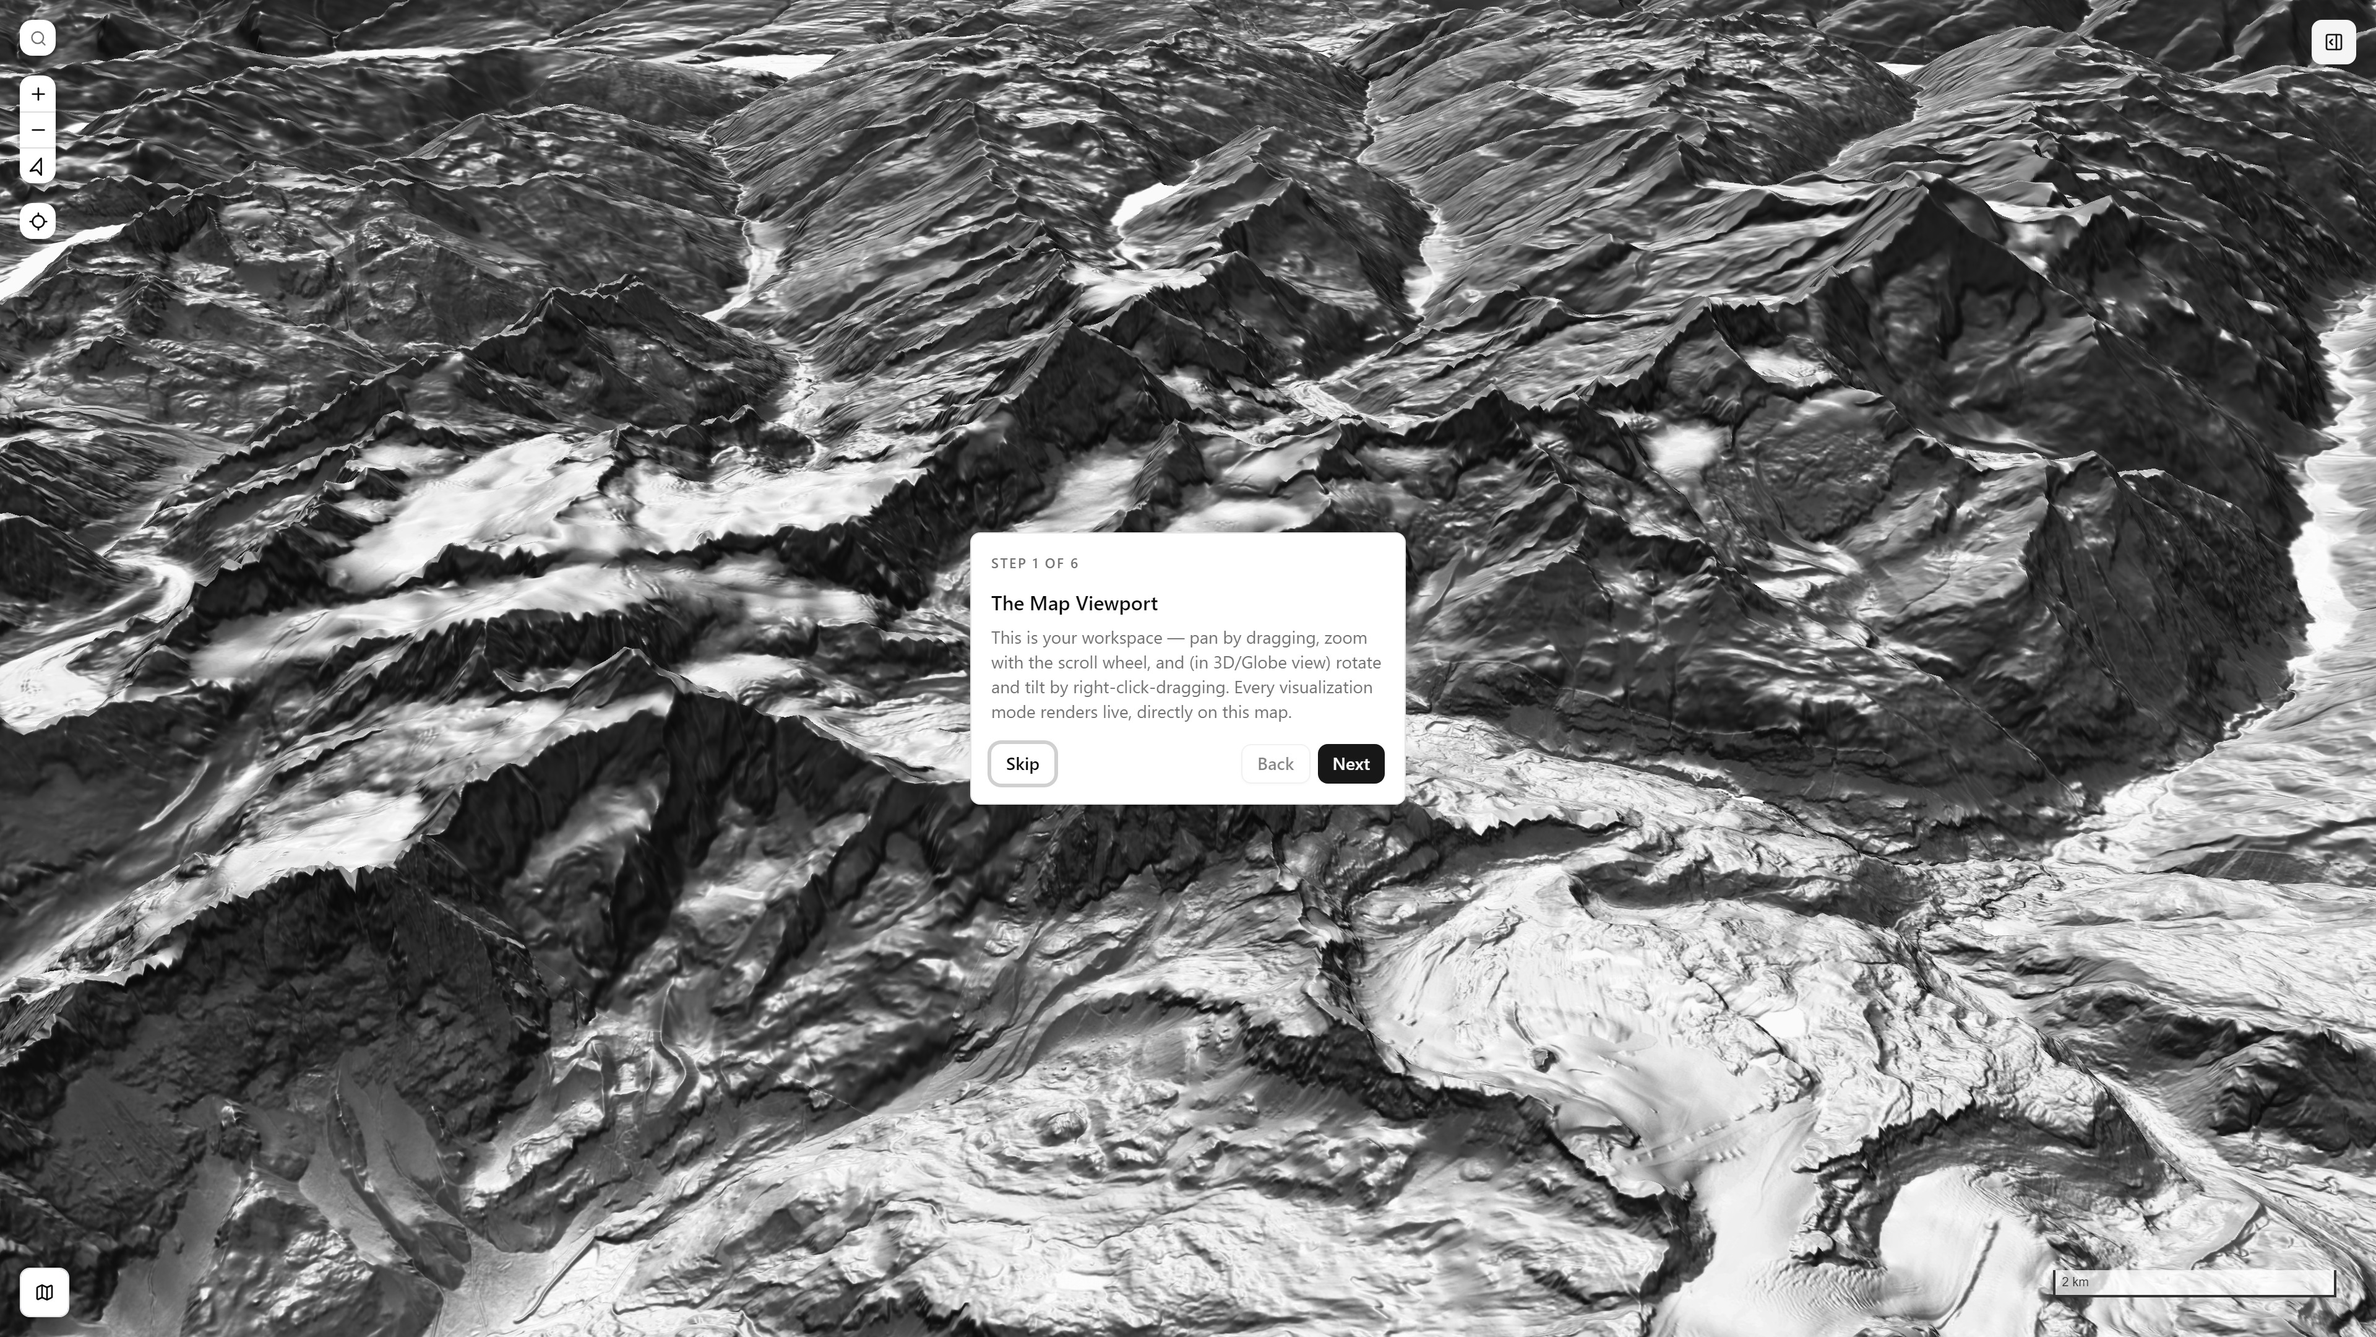
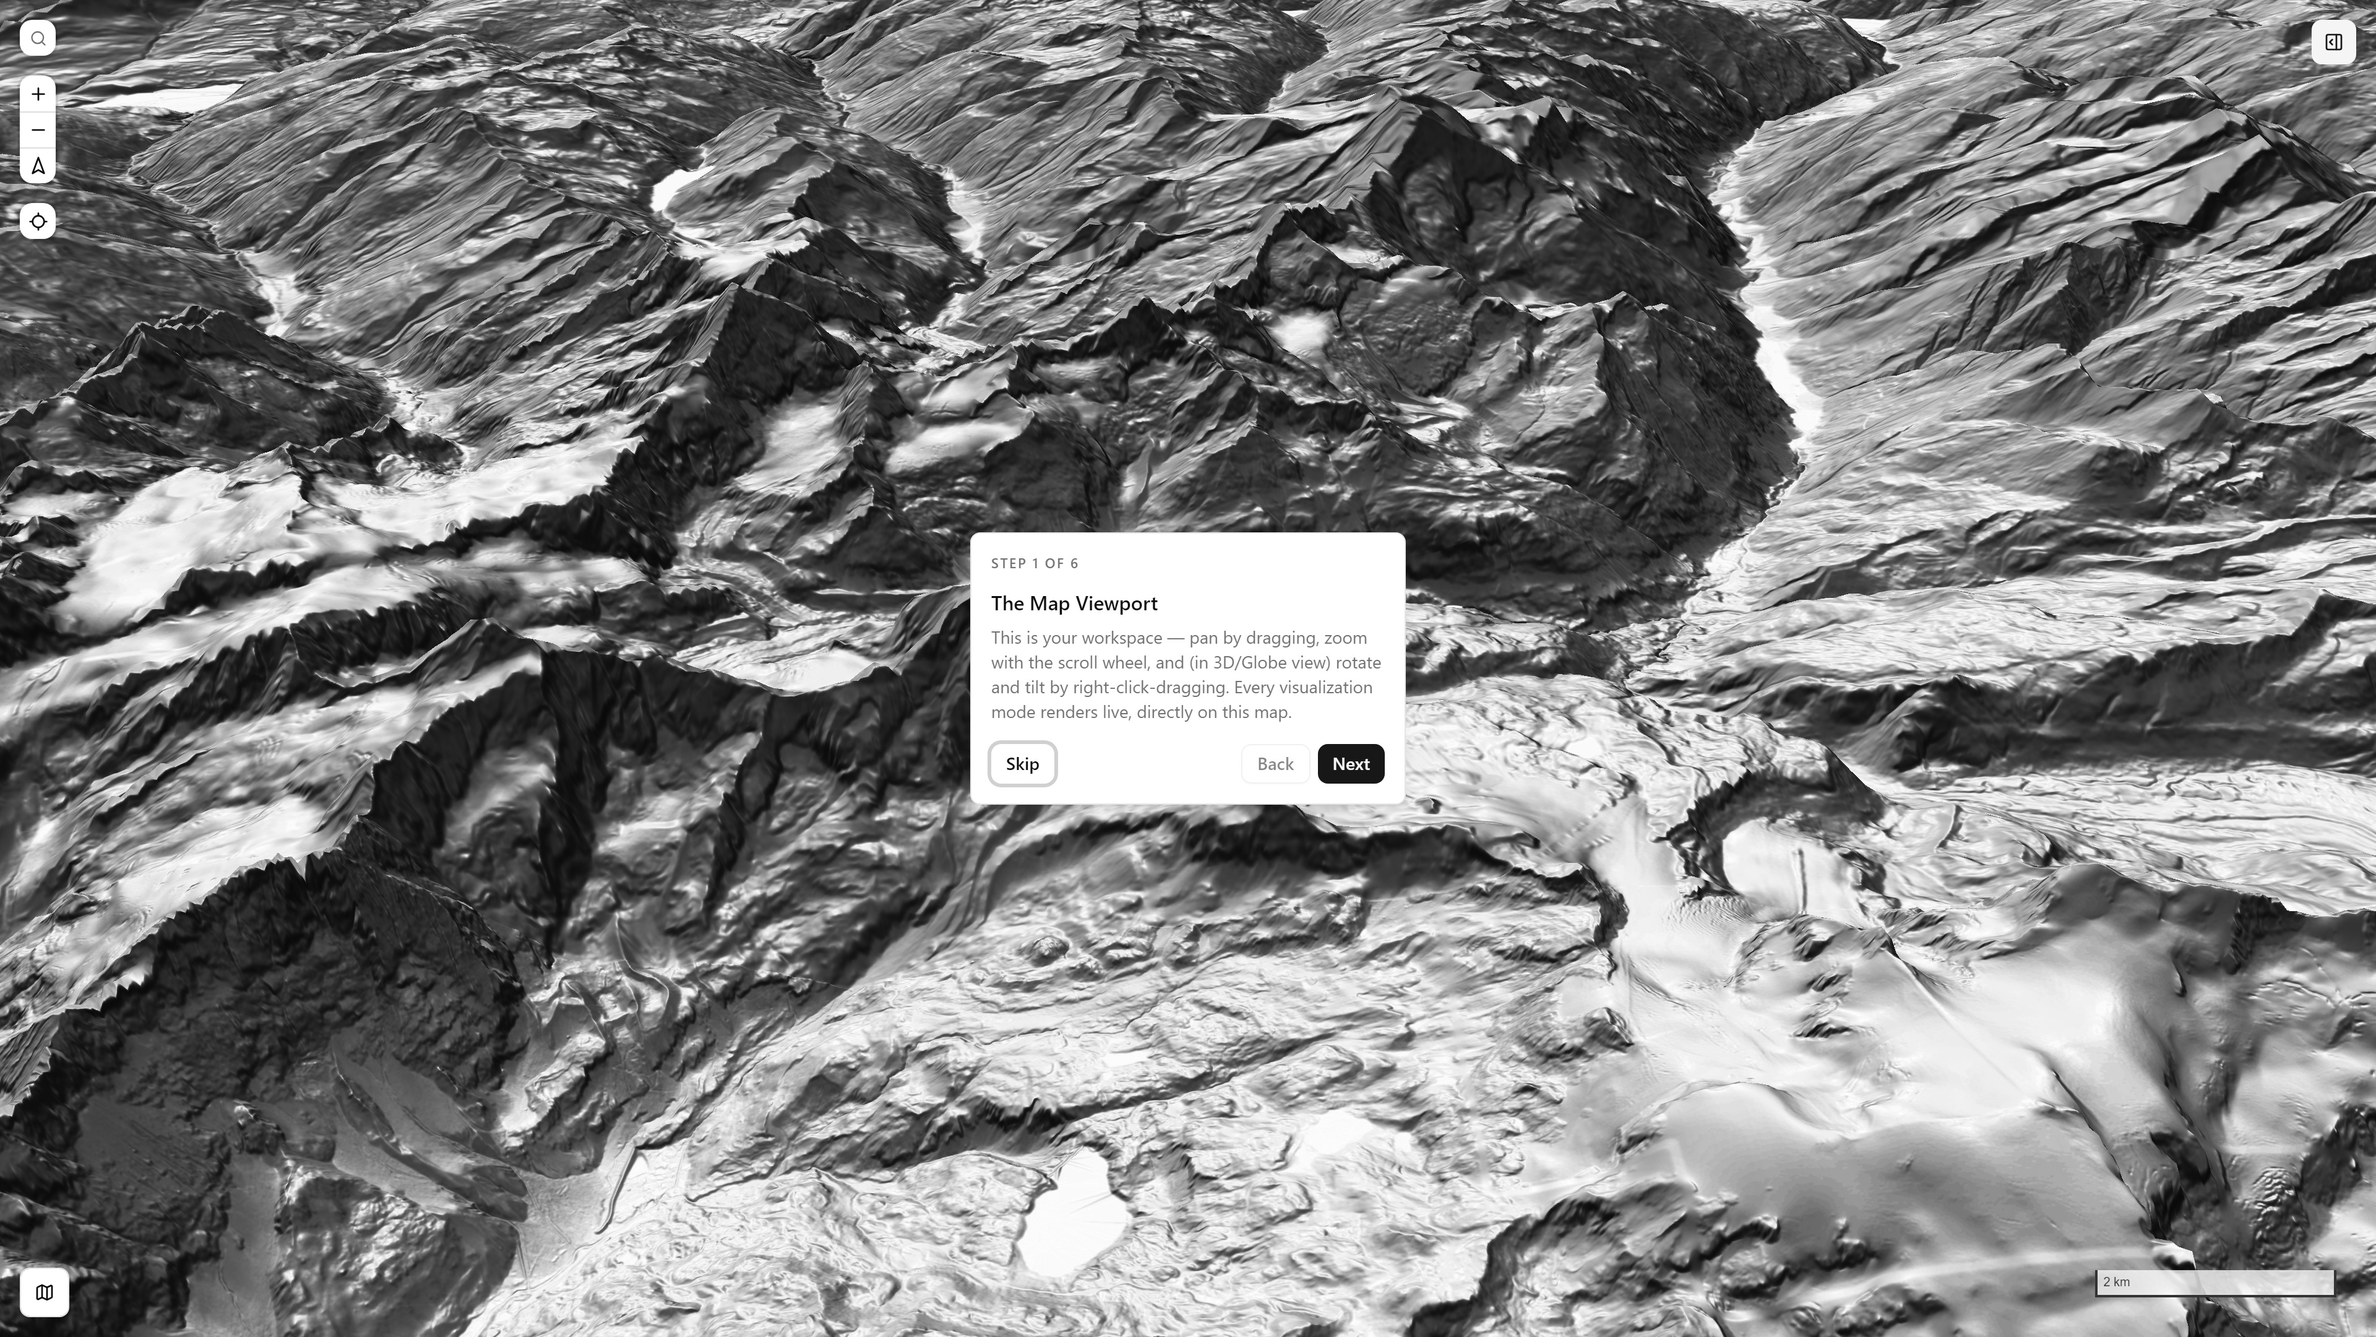
Docs: Elevation Picker/SVF/Hillshade/Matcap/Overlay redo, tour hillshade-reset fix, changelog entry, lightbox multi-link fix
- product-tour.tsx: Terrain Sources step resets to pure Hillshade (fixes
  state carrying over from Relief Visualization); Terrain Analysis step's
  slope bounds set to 0-90 instead of the app default 0-55.
- Walkthrough: 01-map-viewport now uses the app's true default camera
  (was a custom hand-tuned one that didn't match); slope/terrain-analysis
  redone against the new bounds; hypso's partial-render bug documented as
  unresolved (see .claude/memory/screenshots-context.md).
- SVF/Phong/Matcap: recaptured on one exact shared camera state (was
  drifting per-mode); Matcap's own distinct close-up camera retired.
- Split Overlay/Off: much longer settle wait — the previous pass still
  had the AWS source rendering as a flat 2D drape rather than real 3D
  relief. Off recaptured on Overlay's exact post-nudge camera again.
- blend-normal-5 redone with a longer wait (stale historical source).
- Elevation Picker scrolled an extra 250px past its section title so the
  full profile chart + Plane Slicer options are visible.
- Hillshade/Hypso viz-modes screenshots now share the exact same camera
  (hypso.jpg was a stale, much-more-zoomed-out capture).
- Terrain Source "Google 3D Tiles (via DeckGL only)" removed from
  Worldwide Defaults and its Settings API-key field — superseded by the
  Google Maps 3D / Google Earth 3D (web) Open-In destinations.
- Sources page: "Worldwide Basemap Sources (TMS)" → "Basemap Sources".
[…]

diff --git a/docs/src/components/lightbox.tsx b/docs/src/components/lightbox.tsx
@@ -2,21 +2,20 @@
 
 import { type MouseEvent as ReactMouseEvent, type ReactNode, useCallback, useEffect, useState } from 'react';
 
+/** One run of the title bar — plain text, or a clickable link (its own
+ *  visible text plus an href). A caption can contain more than one link
+ *  (e.g. "see the Walkthrough (docs) or take it yourself in-app ↗") — the
+ *  title bar renders every segment in order rather than picking just one. */
+interface TitleNode {
+  text: string;
+  href?: string;
+}
+
 interface LightboxItem {
   src: string;
   alt: string;
   type: 'image' | 'video';
-  /** Plain text shown before the link (or the whole title, if there's no
-   *  link) — for prose images this is the caption's own text with the link
-   *  portion stripped off the end, so the lightbox title reads identically
-   *  to the caption underneath the thumbnail. For the viz-mode grid (whose
-   *  own link precedes the image, not a following caption) this is empty
-   *  and the mode label becomes the whole linkText instead. */
-  titleText?: string;
-  /** The clickable portion's own text (e.g. "open in app ↗", or "Slope ↗"
-   *  for a grid cell) — rendered as an `<a>` only when linkHref is set. */
-  linkText?: string;
-  linkHref?: string;
+  titleNodes: TitleNode[];
 }
 
 interface LightboxState {
@@ -24,31 +23,39 @@ interface LightboxState {
   index: number;
 }
 
+// Internal doc links are written relative to the docs root ("/features/...")
+// but this app is mounted under the "/docs" basePath — a plain <a> (not
+// Next's <Link>) opened directly at that path 404s. External "open in app"
+// links (full https://terrain-viewer.iconem.com/... URLs) are untouched.
+function resolveHref(raw: string): string {
+  return raw.startsWith('/') && !raw.startsWith('/docs') ? `/docs${raw}` : raw;
+}
+
 /** Prose images render as `<p><img/></p>` (remark's standalone-image
- *  wrapping); the caption `<p className="...italic">...<a href>...</a></p>`
- *  is its next sibling. Whatever anchor the caption itself contains (an
- *  "open in app" reproduction link, or a plain cross-reference like "see
- *  Split & Compare Modes") becomes the lightbox's clickable portion, using
- *  its own text — same link the caption already shows underneath the
- *  thumbnail. The viz-mode grid doesn't use this shape at all (its own
- *  link precedes the image) — it sets data-lightbox-title/-href directly
- *  instead, so this is only ever consulted as a fallback. */
-function readCaption(img: HTMLImageElement): { text: string; linkText?: string; href?: string } {
+ *  wrapping); the caption `<p className="...italic">...</p>` is its next
+ *  sibling. Walks the caption's own child nodes in order, turning each
+ *  anchor into a linked TitleNode and everything else into plain text — so
+ *  the lightbox title reads identically to the caption underneath the
+ *  thumbnail, links and all, regardless of how many links it contains. The
+ *  viz-mode grid doesn't use this shape at all (its own link precedes the
+ *  image) — it sets data-lightbox-title/-href directly instead, so this is
+ *  only ever consulted as a fallback. */
+function readCaptionNodes(img: HTMLImageElement): TitleNode[] {
   const sibling = img.parentElement?.nextElementSibling;
-  if (sibling?.tagName !== 'P') return { text: img.alt };
-  const fullText = sibling.textContent?.trim() ?? '';
-  const linkEl = sibling.querySelector('a[href]');
-  if (!linkEl) return { text: fullText || img.alt };
-  const linkText = linkEl.textContent ?? '';
-  const rawHref = linkEl.getAttribute('href') ?? undefined;
-  // Internal doc links are written relative to the docs root ("/features/...")
-  // but this app is mounted under the "/docs" basePath — a plain <a> (not
-  // Next's <Link>) opened directly at that path 404s. External "open in
-  // app" links (full https://terrain-viewer.iconem.com/... URLs) are
-  // untouched.
-  const href = rawHref?.startsWith('/') && !rawHref.startsWith('/docs') ? `/docs${rawHref}` : rawHref;
-  const text = fullText.endsWith(linkText) ? fullText.slice(0, fullText.length - linkText.length) : fullText;
-  return { text, linkText, href };
+  if (sibling?.tagName !== 'P') return img.alt ? [{ text: img.alt }] : [];
+  const nodes: TitleNode[] = [];
+  for (const node of Array.from(sibling.childNodes)) {
+    if (node instanceof HTMLAnchorElement) {
+      const rawHref = node.getAttribute('href');
+      nodes.push({ text: node.textContent ?? '', href: rawHref ? resolveHref(rawHref) : undefined });
+    } else {
+      const text = node.textContent ?? '';
+      if (text) nodes.push({ text });
+    }
+  }
+  if (nodes.length) return nodes;
+  const fallback = sibling.textContent?.trim() || img.alt;
+  return fallback ? [{ text: fallback }] : [];
 }
 
 function readItem(el: Element): LightboxItem | null {
@@ -60,24 +67,14 @@ function readItem(el: Element): LightboxItem | null {
         src: el.currentSrc || el.src,
         alt: el.alt,
         type: 'image',
-        titleText: '',
-        linkText: dataHref ? `${dataTitle} ↗` : dataTitle,
-        linkHref: dataHref,
+        titleNodes: [{ text: dataHref ? `${dataTitle} ↗` : dataTitle, href: dataHref }],
       };
     }
-    const caption = readCaption(el);
-    return {
-      src: el.currentSrc || el.src,
-      alt: el.alt,
-      type: 'image',
-      titleText: caption.text,
-      linkText: caption.linkText,
-      linkHref: caption.href,
-    };
+    return { src: el.currentSrc || el.src, alt: el.alt, type: 'image', titleNodes: readCaptionNodes(el) };
   }
   if (el instanceof HTMLVideoElement) {
     const dataTitle = el.getAttribute('data-lightbox-title') || undefined;
-    return { src: el.currentSrc || el.src, alt: '', type: 'video', titleText: dataTitle };
+    return { src: el.currentSrc || el.src, alt: '', type: 'video', titleNodes: dataTitle ? [{ text: dataTitle }] : [] };
   }
   return null;
 }
@@ -158,18 +155,22 @@ export function LightboxProvider({ children }: { children: ReactNode }) {
           </button>
 
           <div className="flex h-14 shrink-0 items-center justify-center px-16 pt-2" onClick={stop}>
-            {(current.titleText || current.linkText) && (
+            {current.titleNodes.length > 0 && (
               <div className="max-w-full truncate text-center text-sm text-white/90">
-                {current.titleText}
-                {current.linkHref && (
-                  <a
-                    href={current.linkHref}
-                    target="_blank"
-                    rel="noopener noreferrer"
-                    className="text-white/90 hover:text-white hover:underline"
-                  >
-                    {current.linkText}
-                  </a>
+                {current.titleNodes.map((node, i) =>
+                  node.href ? (
+                    <a
+                      key={i}
+                      href={node.href}
+                      target="_blank"
+                      rel="noopener noreferrer"
+                      className="text-white/90 hover:text-white hover:underline"
+                    >
+                      {node.text}
+                    </a>
+                  ) : (
+                    <span key={i}>{node.text}</span>
+                  ),
                 )}
               </div>
             )}

diff --git a/lib/terrain-sources.ts b/lib/terrain-sources.ts
@@ -68,15 +68,18 @@ export const terrainSources: Record<TerrainSource, TerrainSourceConfig> = {
   //     encoding: "terrarium",
   //   },
   // },
-  google3dtiles: {
-    name: "Google 3D Tiles (via DeckGL only)",
-    link: "https://goo.gle/3d-area-explorer-admin#camera.orbitType=fixed-orbit&location.coordinates.lat={LAT}&location.coordinates.lng={LNG}",
-    description: "Google 3D Cities not available, 3D-tiles tileset are not compatible with Maplibre GL JS without Deck.gl. See https://mapsplatform.google.com/demos/3d-maps and https://developers.google.com/maps/architecture/3d-area-explorer",
-    encoding: "3dtiles",
-    sourceConfig: {
-      type: "3dtiles",
-      tiles: ["https://tile.googleapis.com/v1/3dtiles/root.json?key={API_KEY}"],
-      encoding: "3dtiles",
-    },
-  },
+  // Removed from Worldwide Defaults — this experience is now reachable via
+  // the "Google Maps 3D" / "Google Earth 3D (web)" Open-In destinations
+  // instead (see open-in-links.tsx), which don't need Deck.gl at all.
+  // google3dtiles: {
+  //   name: "Google 3D Tiles (via DeckGL only)",
+  //   link: "https://goo.gle/3d-area-explorer-admin#camera.orbitType=fixed-orbit&location.coordinates.lat={LAT}&location.coordinates.lng={LNG}",
+  //   description: "Google 3D Cities not available, 3D-tiles tileset are not compatible with Maplibre GL JS without Deck.gl. See https://mapsplatform.google.com/demos/3d-maps and https://developers.google.com/maps/architecture/3d-area-explorer",
+  //   encoding: "3dtiles",
+  //   sourceConfig: {
+  //     type: "3dtiles",
+  //     tiles: ["https://tile.googleapis.com/v1/3dtiles/root.json?key={API_KEY}"],
+  //     encoding: "3dtiles",
+  //   },
+  // },
 }

diff --git a/components/TerrainControlPanel/settings-dialog.tsx b/components/TerrainControlPanel/settings-dialog.tsx
@@ -971,16 +971,6 @@ export const SettingsDialog: React.FC<{ isOpen: boolean; onOpenChange: (open: bo
                     Unlocks Planet Monthly Mosaics as a historical Basemap option — hidden until set.
                   </p>
                 </div>
-
-                <div className="space-y-2">
-                  <Label htmlFor="google-key">Google Maps API Key</Label>
-                  <PasswordInput
-                    id="google-key"
-                    value={googleKey}
-                    onChange={(e: any) => setGoogleKey(e.target.value)}
-                    className="cursor-text"
-                  />
-                </div>
               </>
             )}
           </CollapsibleSection>

diff --git a/lib/terrain-types.ts b/lib/terrain-types.ts
@@ -3,7 +3,7 @@
 // raster *basemap* imagery option) were never actually populated in
 // terrainSources below — narrowed to match reality instead of the two ghost
 // members Record<TerrainSource, TerrainSourceConfig> silently never enforced.
-export type TerrainSource = "mapterhorn" | "maptiler" | "aws" | "mapbox" | "google3dtiles"
+export type TerrainSource = "mapterhorn" | "maptiler" | "aws" | "mapbox"
 
 
 export const HILLSHADE_METHODS = [

diff --git a/components/TerrainControlPanel/product-tour.tsx b/components/TerrainControlPanel/product-tour.tsx
@@ -153,6 +153,7 @@ function prepareTerrainAnalysisOnly(a: TourActions) {
   prepareTerrainBase(a, {
     showHillshade: true, hillshadeOpacity: 0.3, showColorRelief: false, showReliefVisualization: false,
     showTerrainAnalysis: true, terrainAnalysisOpacity: 1, showSlope: true, showCurvature: false,
+    slopeMinDegrees: 0, slopeMaxDegrees: 90,
   })
   a.setSectionOpen((prev) => ({ ...prev, hillshade: false }))
 }

diff --git a/CHANGELOG.md b/CHANGELOG.md
@@ -1,5 +1,22 @@
+# Changelog — Docs Site Expansion and Open-In Additions
+<!-- released: 2026-08-19 -->
+
+#### TL;DR
+- **Docs site expansion** — dozens of new or re-shot real screenshots across Visualization Modes, the full guided-tour Walkthrough, Split & Compare, and more; new user-facing pages (Walkthrough, Tools, Frescoes & Artifact Scans) in the Features guide; new developer documentation (Lighting Effects, Terrain Analysis Pipeline, ESRI Wayback).
+- New **Open In** destinations (Iconem River-REM, Google Maps 3D, Google Earth Historical/3D), a `?startTour=true` deep link to launch the guided tour directly, plus assorted fixes (lightbox caption links, changelog date-key collisions, KaTeX formula layout).
+
+### Features
+- **Docs site** — Visualization Modes, Walkthrough, Split & Compare, Basemaps & Historical, Sources, Tools, Frescoes & Artifact Scans, and several Dev pages substantially expanded with real app screenshots, reproduction URLs, and clarifying prose.
+- **Open In** — Iconem River-REM, Google Maps 3D, and separate Google Earth Historical (web) / Google Earth 3D (web) destinations; ESRI Wayback Machine moved to the top of the list.
+- `?startTour=true` URL param launches the guided product tour directly, independent of first-visit state.
+
+### Bug Fixes
+- Docs lightbox: a caption link followed by trailing text (e.g. a parenthetical note) no longer gets pushed past the title bar's truncation, hiding the actual clickable link.
+- Changelog: two entries sharing the same release date collided on the same React key — a browser console warning explains it, but see the fix in this entry's own `<!-- released -->` marker for the general pattern.
+- Terrain Source "Google 3D Tiles (via DeckGL only)" removed from Worldwide Defaults — the same experience is reachable via the Google Maps 3D / Google Earth 3D (web) Open-In destinations instead.
+
 # Changelog — Terrain Camera Fixes, Terrain Sources Docs, and Favicon Polish
-<!-- released: 2026-08-16 -->
+<!-- released: 2026-08-16T17:00 -->
 
 #### TL;DR
 - **Camera sync fixes** — DEM tiles arriving after terrain turns on, pane resizes, and the padding `easeTo` all leave the elevation reference stale. Re-anchored on `idle` via `recalculateZoomAndCenter` (holds camera position, solves for the new center/zoom — nothing moves on screen), guarded by a 1 m epsilon so padding changes and mode switches don't nudge the focus point. The view you last touched is authoritative; the others are copied wholesale from it.
@@ -24,7 +41,7 @@
 - Docs: XYPad demo video 404 (`visualization-modes.mdx`'s `<video src>` was missing the `/docs` base-path prefix).
 
 # Changelog — Guided Product Tour
-<!-- released: 2026-08-16 -->
+<!-- released: 2026-08-16T09:00 -->
 
 #### TL;DR
 - New **guided product tour** (Compass icon in Settings, or auto-starts on first visit): a branching walkthrough covering the shared basics, then either the Terrain visualization tools or Historical Satellite imagery mode, chosen at a fork partway through.
